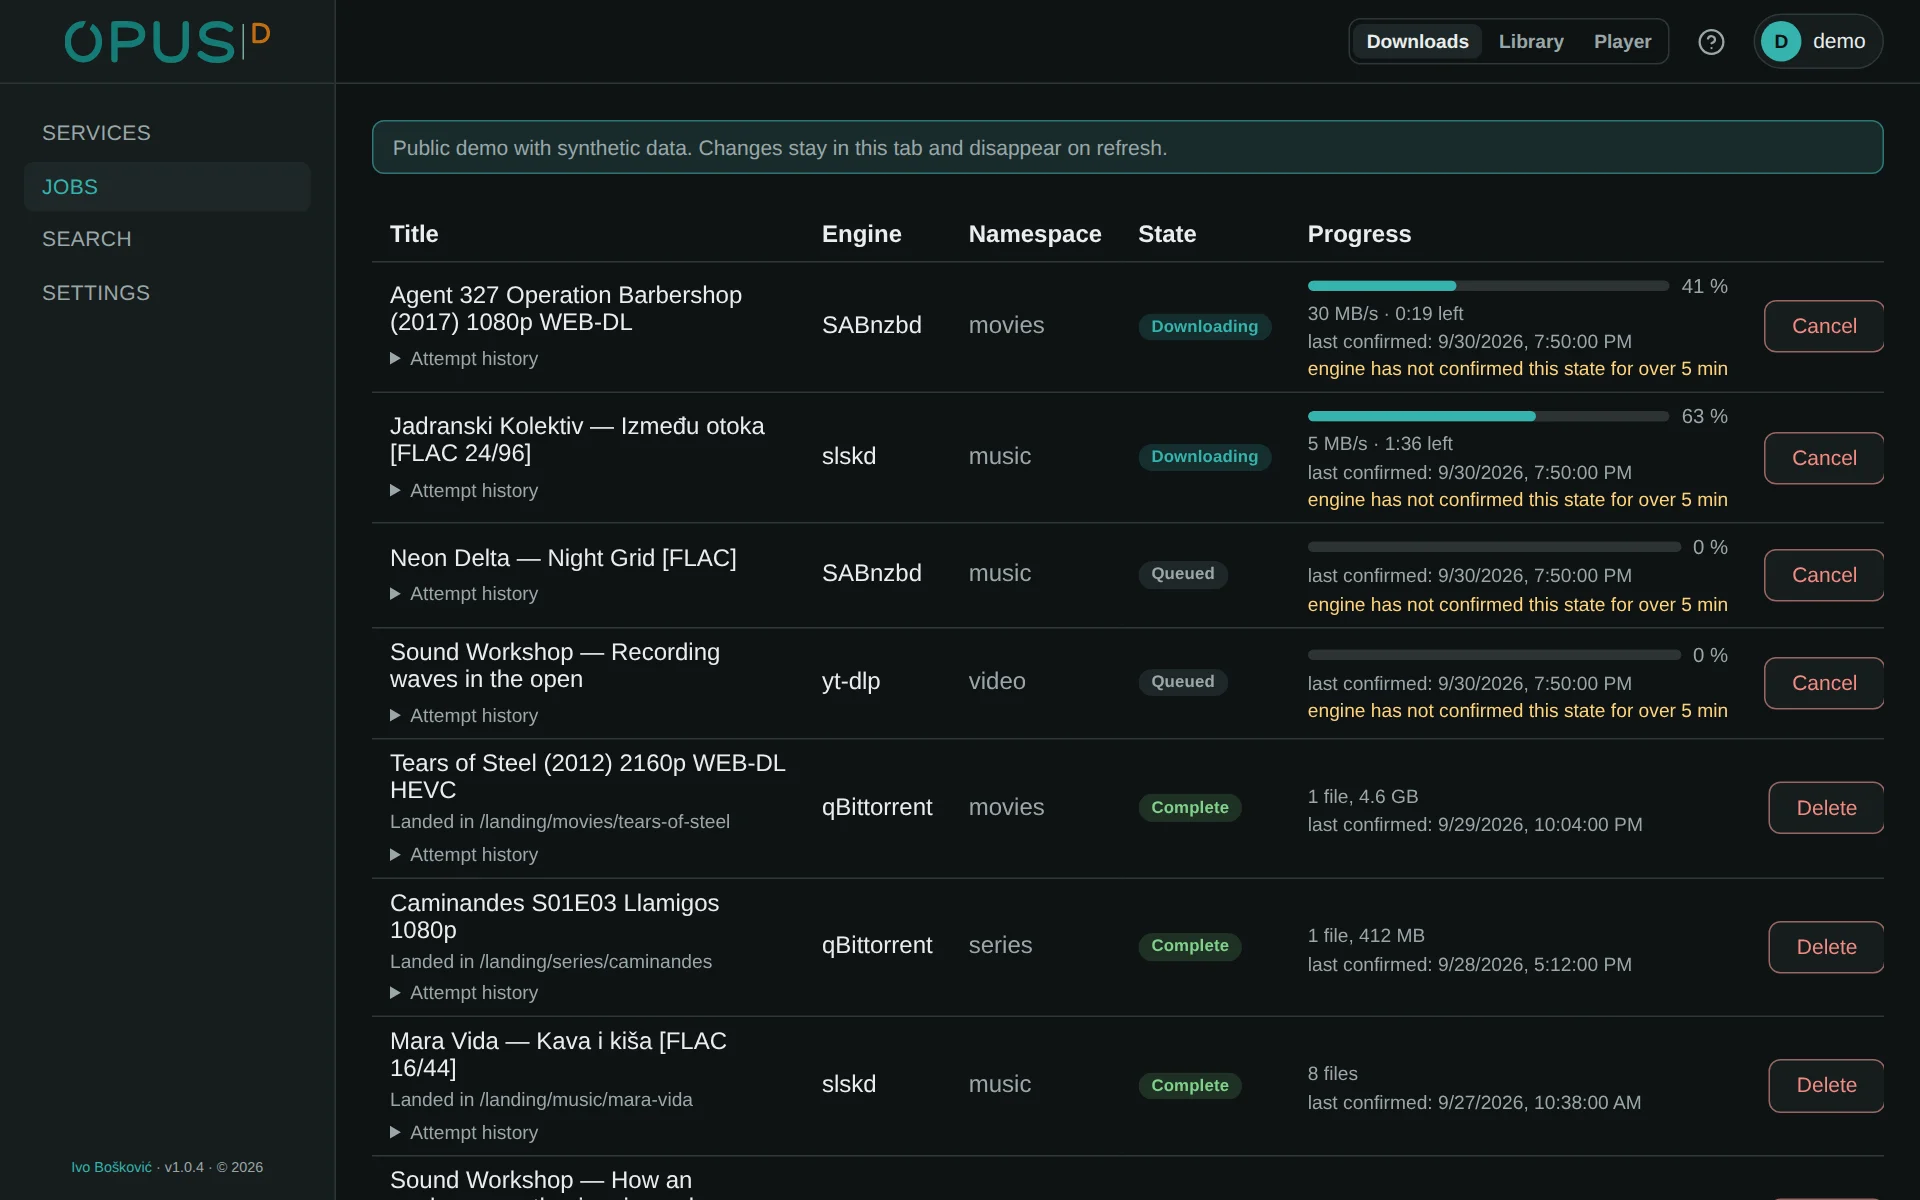
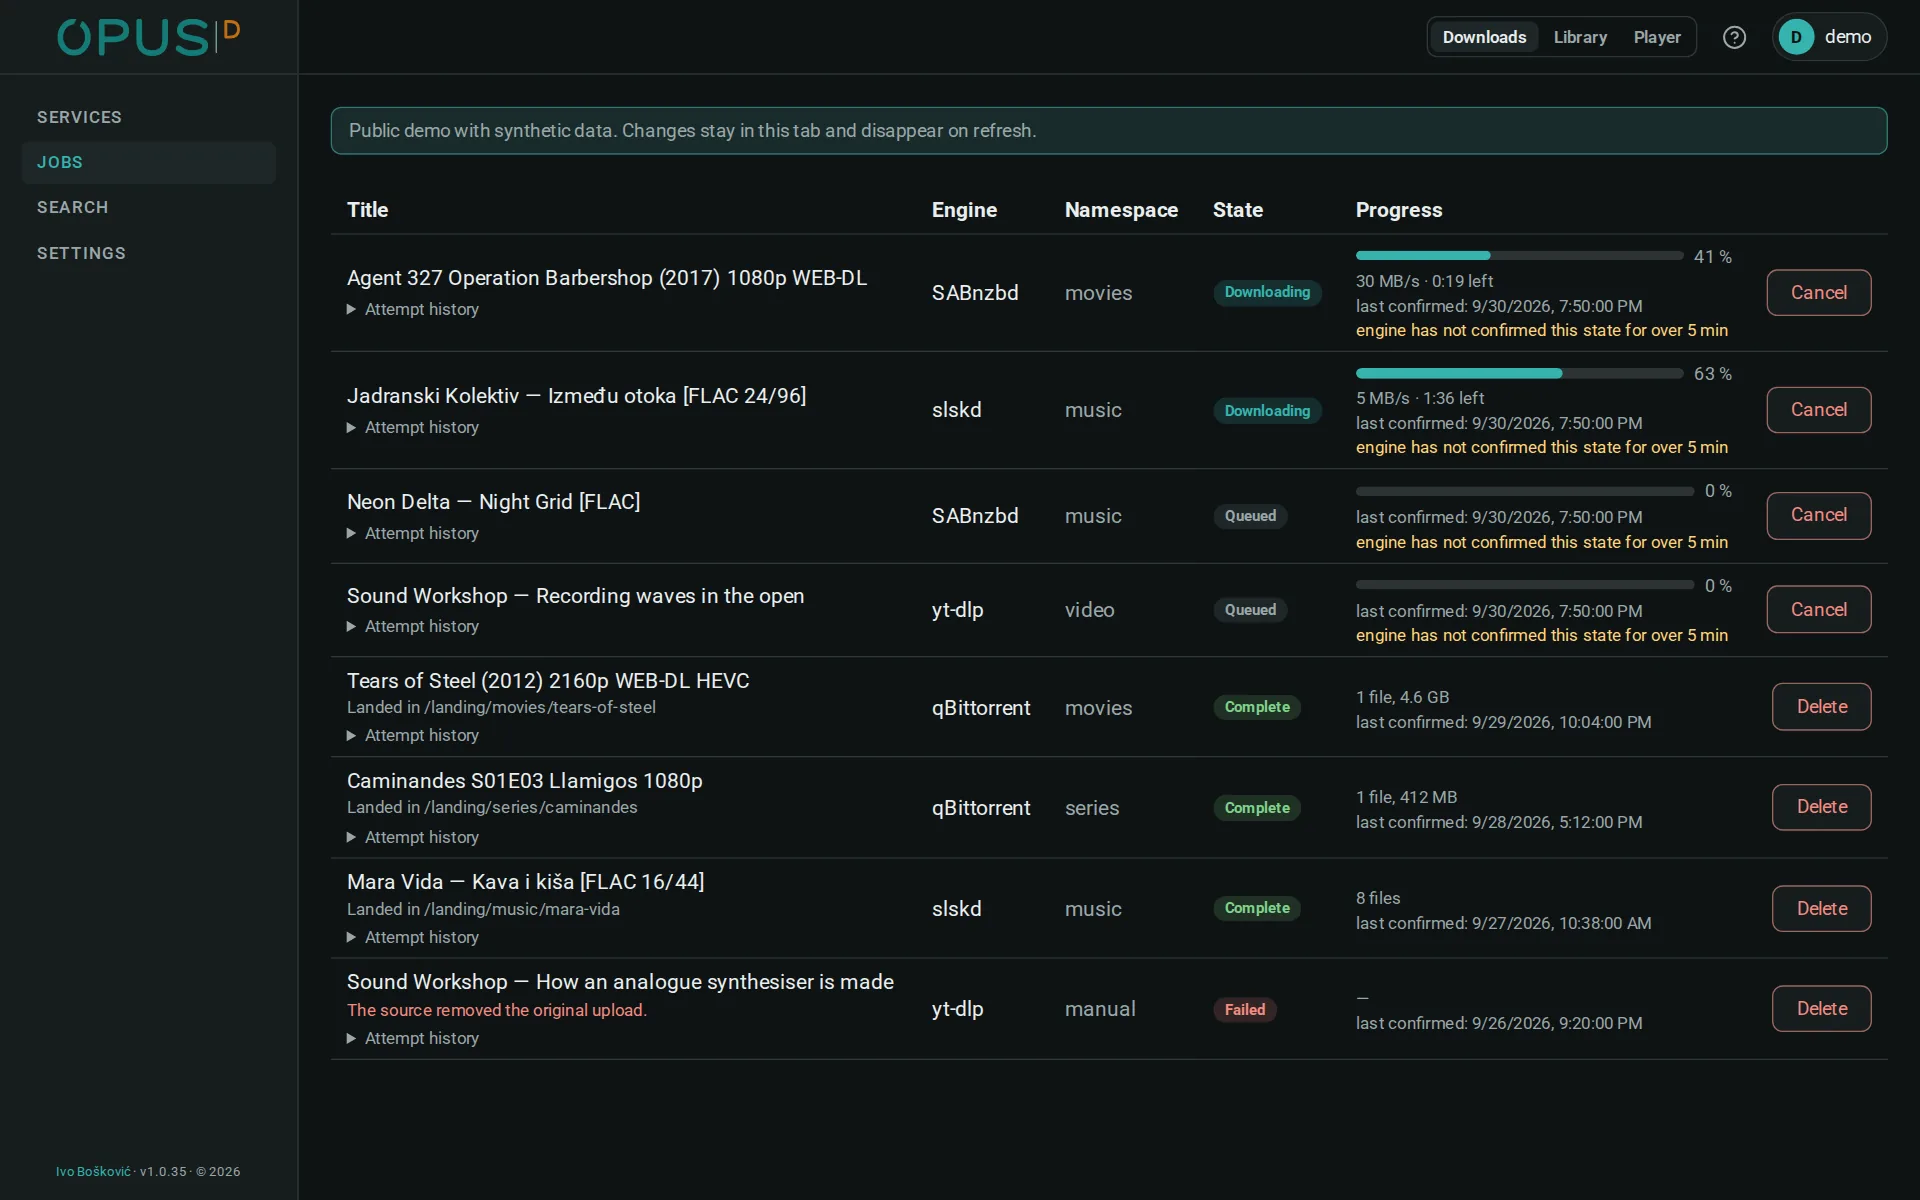
Help after the October and November changes; the README pictures taken again from the walked demo
- opus-ui 3e6f72b: usenet 1080p+ ahead of torrents with the sharper copy replacing the first, and a download stuck at nothing for 24 hours given up for the next release
- README screenshots, tour and social card from the demo the Library's demo.sh walks
- rolldown's plugin timing check off: the Svelte compiler is JavaScript and always most of the build

diff --git a/frontend/vite.config.ts b/frontend/vite.config.ts
@@ -19,6 +19,9 @@ export default defineConfig({
 			...(demo ? {} : { csp })
 		})
 	],
+	// rolldown times every plugin and calls the build slow when JavaScript
+	// plugins take most of it, which the Svelte compiler always does
+	build: { rolldownOptions: { checks: { pluginTimings: false } } },
 	resolve: process.env.VITEST ? { conditions: ['browser'] } : undefined,
 	test: {
 		include: ['src/**/*.test.ts']
